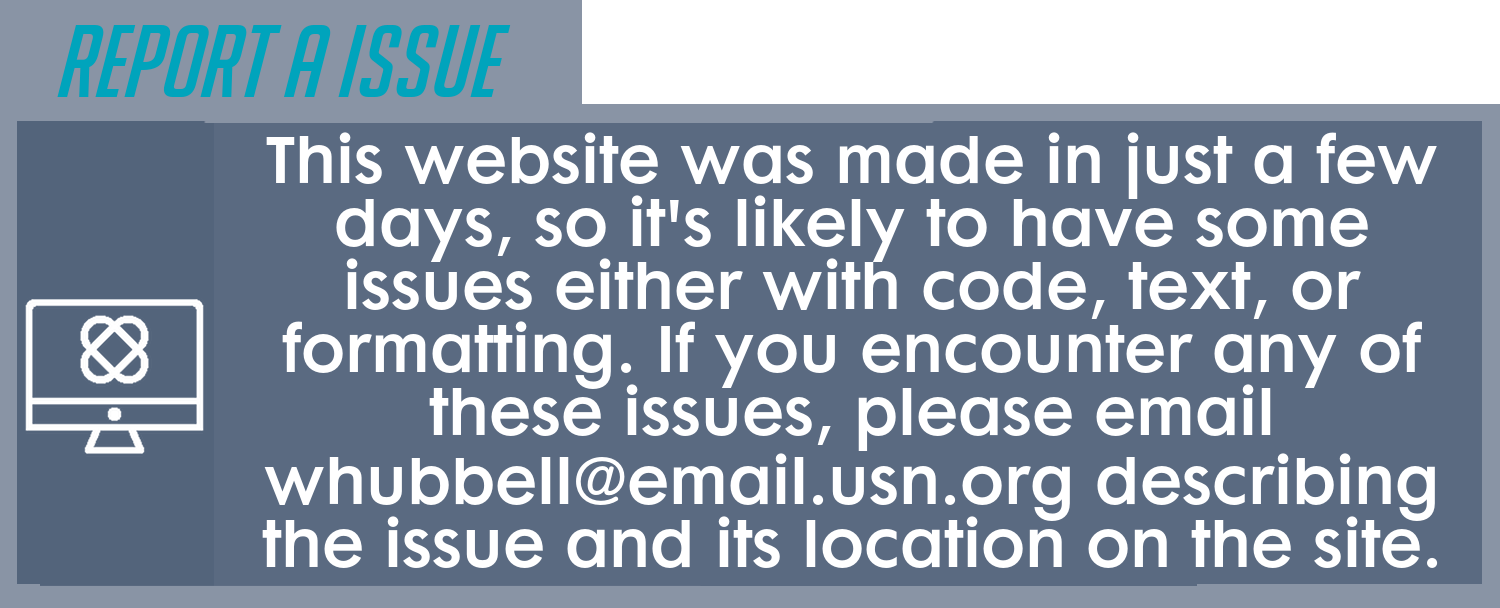
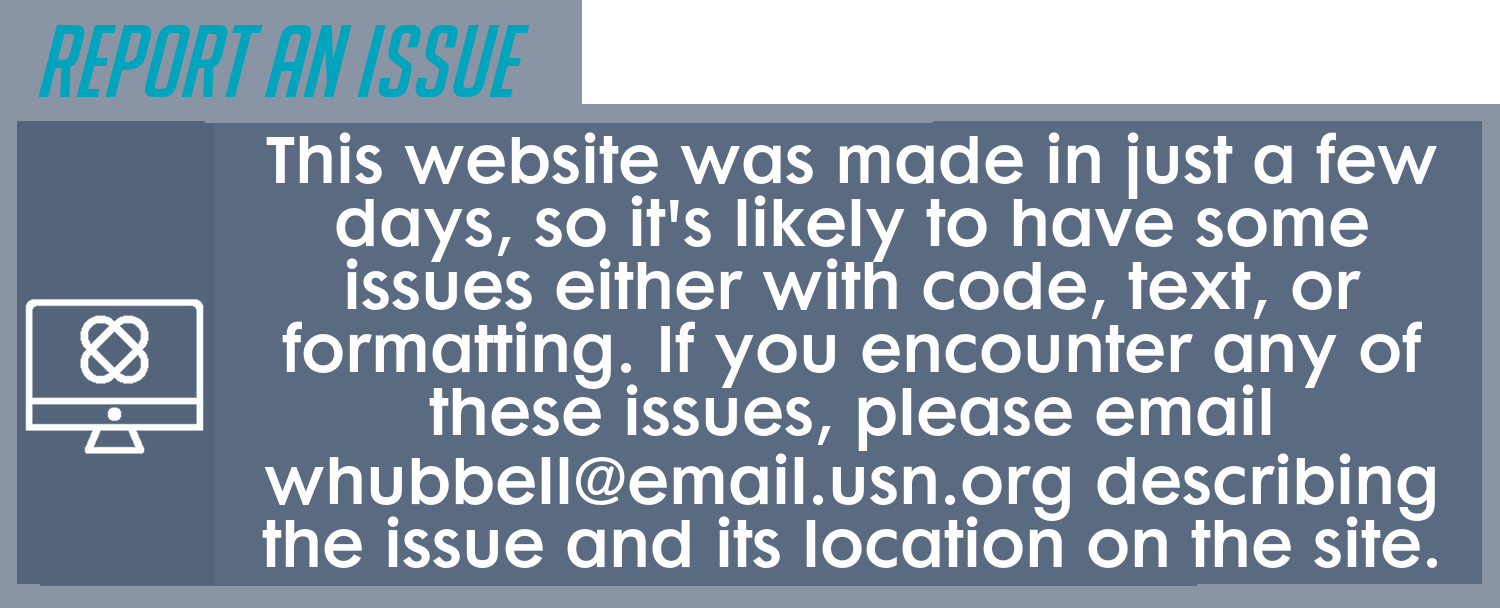
fixed some grammar

Changed region(s): [[0.0, 0.0312, 0.368, 0.1562]]

diff --git a/About.html b/About.html
@@ -24,16 +24,16 @@ w\:* {behavior:url(#default#VML);}
  <o:DocumentProperties>
   <o:Author>Alex Lomis</o:Author>
   <o:LastAuthor>Alex Lomis</o:LastAuthor>
-  <o:Revision>61</o:Revision>
-  <o:TotalTime>55</o:TotalTime>
+  <o:Revision>62</o:Revision>
+  <o:TotalTime>56</o:TotalTime>
   <o:Created>2017-05-12T02:12:00Z</o:Created>
-  <o:LastSaved>2017-05-16T19:10:00Z</o:LastSaved>
+  <o:LastSaved>2017-05-16T19:16:00Z</o:LastSaved>
   <o:Pages>2</o:Pages>
-  <o:Words>32</o:Words>
-  <o:Characters>189</o:Characters>
+  <o:Words>33</o:Words>
+  <o:Characters>191</o:Characters>
   <o:Lines>1</o:Lines>
   <o:Paragraphs>1</o:Paragraphs>
-  <o:CharactersWithSpaces>220</o:CharactersWithSpaces>
+  <o:CharactersWithSpaces>223</o:CharactersWithSpaces>
   <o:Version>14.0</o:Version>
  </o:DocumentProperties>
  <o:OfficeDocumentSettings>
@@ -611,12 +611,12 @@ yes'><o:p>&nbsp;</o:p></span></p>
 style='font-size:12.0pt;line-height:115%;font-family:Cambria;mso-ascii-theme-font:
 minor-latin;mso-fareast-font-family:"\FF2D\FF33 \660E\671D";mso-fareast-theme-font:
 minor-fareast;mso-hansi-theme-font:minor-latin;color:windowtext;mso-no-proof:
-yes'><!--[if gte vml 1]><v:shape id="_x0000_i1034" type="#_x0000_t75" alt="Description: Macintosh HD:Users:AlexLomis:Desktop:Labs.png"
+yes'><!--[if gte vml 1]><v:shape id="_x0000_i1032" type="#_x0000_t75" alt="Description: Macintosh HD:Users:AlexLomis:Desktop:Labs.png"
  style='width:767pt;height:311pt;visibility:visible;mso-wrap-style:square'>
  <v:imagedata src="About_files/image015.png" o:title="Labs.png"/>
 </v:shape><![endif]--><![if !vml]><img border=0 width=769 height=313
 src="About_files/image016.png"
-alt="Description: Macintosh HD:Users:AlexLomis:Desktop:Labs.png" v:shapes="_x0000_i1034"><![endif]><o:p></o:p></span></p>
+alt="Description: Macintosh HD:Users:AlexLomis:Desktop:Labs.png" v:shapes="_x0000_i1032"><![endif]><o:p></o:p></span></p>
 
 <p class=MsoNormal align=center style='text-align:center'><span
 style='font-size:12.0pt;line-height:115%;font-family:Cambria;mso-ascii-theme-font:
@@ -657,13 +657,30 @@ yes'><o:p>&nbsp;</o:p></span></p>
 style='font-size:12.0pt;line-height:115%;font-family:Cambria;mso-ascii-theme-font:
 minor-latin;mso-fareast-font-family:"\FF2D\FF33 \660E\671D";mso-fareast-theme-font:
 minor-fareast;mso-hansi-theme-font:minor-latin;color:windowtext;mso-no-proof:
-yes'><!--[if gte vml 1]><v:shape id="Picture_x0020_3" o:spid="_x0000_i1032"
- type="#_x0000_t75" alt="Description: Macintosh HD:Users:AlexLomis:Desktop:Bugs.png"
+yes'><!--[if gte vml 1]><v:shape id="_x0000_i1034" type="#_x0000_t75" alt="Description: Macintosh HD:Users:AlexLomis:Desktop:Bugs.png"
  style='width:767pt;height:311pt;visibility:visible;mso-wrap-style:square'>
  <v:imagedata src="About_files/image019.png" o:title="Bugs.png"/>
 </v:shape><![endif]--><![if !vml]><img border=0 width=769 height=313
 src="About_files/image020.png"
-alt="Description: Macintosh HD:Users:AlexLomis:Desktop:Bugs.png" v:shapes="Picture_x0020_3"><![endif]><o:p></o:p></span></p>
+alt="Description: Macintosh HD:Users:AlexLomis:Desktop:Bugs.png" v:shapes="_x0000_i1034"><![endif]><o:p></o:p></span></p>
+
+<p class=MsoNormal align=center style='text-align:center'><span
+style='font-size:12.0pt;line-height:115%;font-family:Cambria;mso-ascii-theme-font:
+minor-latin;mso-fareast-font-family:"\FF2D\FF33 \660E\671D";mso-fareast-theme-font:
+minor-fareast;mso-hansi-theme-font:minor-latin;color:windowtext;mso-no-proof:
+yes'><o:p>&nbsp;</o:p></span></p>
+
+<p class=MsoNormal align=center style='text-align:center'><span
+style='font-size:12.0pt;line-height:115%;font-family:Cambria;mso-ascii-theme-font:
+minor-latin;mso-fareast-font-family:"\FF2D\FF33 \660E\671D";mso-fareast-theme-font:
+minor-fareast;mso-hansi-theme-font:minor-latin;color:windowtext;mso-no-proof:
+yes'><o:p>&nbsp;</o:p></span></p>
+
+<p class=MsoNormal align=center style='text-align:center'><span
+style='font-size:12.0pt;line-height:115%;font-family:Cambria;mso-ascii-theme-font:
+minor-latin;mso-fareast-font-family:"\FF2D\FF33 \660E\671D";mso-fareast-theme-font:
+minor-fareast;mso-hansi-theme-font:minor-latin;color:windowtext;mso-no-proof:
+yes'><o:p>&nbsp;</o:p></span></p>
 
 </div>
 
